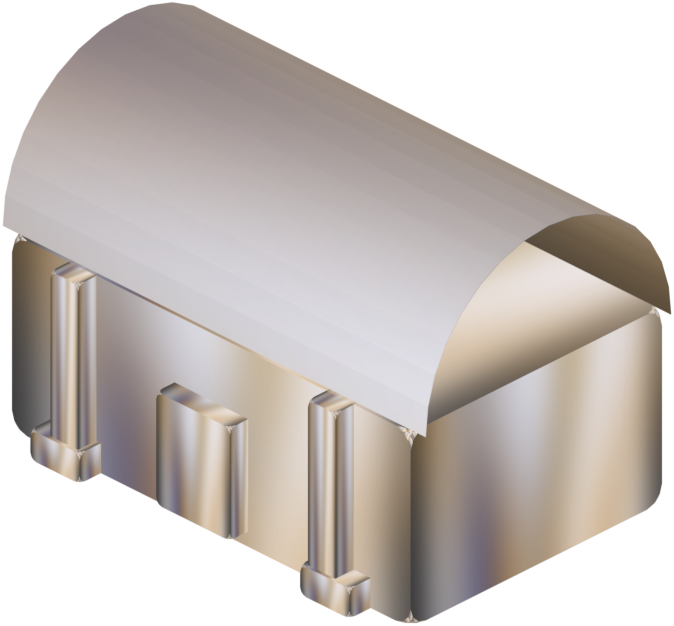
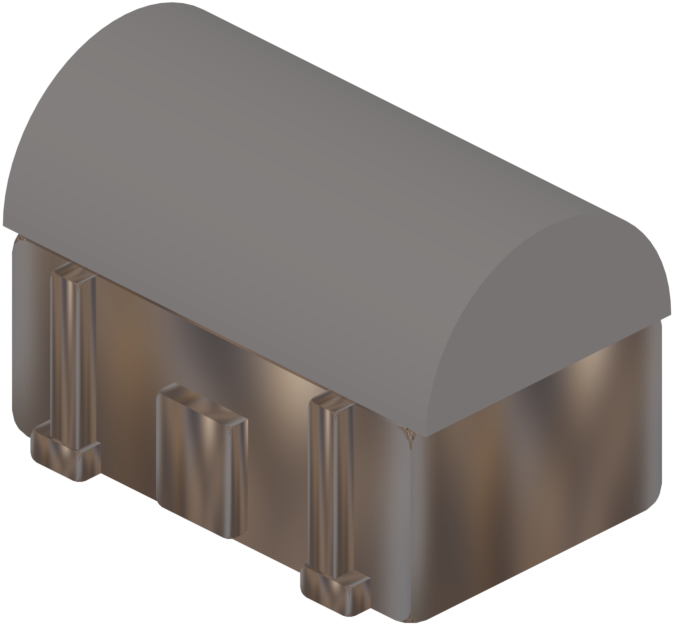
fix(npc): 宝箱半圆柱重写——显式实心端盖（不再裁剪）+ 贴图改取参考图 chest_closed 深色木纹
- make_half_cylinder 重写：显式建网格（拱面+两端实心半圆端盖+底面），不再用圆柱裁剪
  （旧法切掉下半后 holes_fill 未补上端盖，两端空心）；补 UV（拱面/端盖/底面）
- chest_body_tex 改从参考图 chest_closed（深色木箱 85~136 棕）提取盖侧/箱体交界带 +
  去噪平滑（mean 107,91,78）
- 紧身裁剪 674x626（宽高比 1.0767，显示 180x167 不变）

diff --git a/tools/ai-gen/render-factory-real.py b/tools/ai-gen/render-factory-real.py
@@ -133,25 +133,57 @@ def make_prism(L, W, H):
 
 
 def make_half_cylinder(L, R, segments=32):
-    """放倒的半圆柱（拱形盖）：轴沿 X，保留 z>=0 的上拱，底面平切在 z=0（贴箱体顶面）。"""
-    bpy.ops.mesh.primitive_cylinder_add(radius=R, depth=L, vertices=segments)
+    """放倒的半圆柱（拱形盖）：轴沿 X，上拱 + 两端实心端盖 + 底面平切 z=0。
+    显式建网格（旧法用圆柱裁剪，切掉下半后两端端盖是空的——holes_fill 也没补上）。"""
+    bpy.ops.mesh.primitive_cube_add(size=2)
     o = bpy.context.active_object
-    o.rotation_euler = (0, math.radians(90), 0)  # 轴 Z -> X
-    bpy.context.view_layer.update()
-    bpy.ops.object.transform_apply(rotation=True, scale=True)
+    bpy.ops.object.mode_set(mode="EDIT")
+    bpy.ops.mesh.select_all(action="SELECT")
+    bpy.ops.mesh.delete(type="VERT")
+    bpy.ops.object.mode_set(mode="OBJECT")
     import bmesh
     bpy.ops.object.mode_set(mode="EDIT")
     bm = bmesh.from_edit_mesh(o.data)
-    for v in list(bm.verts):
-        if v.co.z < -0.001:
-            bm.verts.remove(v)
-    # 两端封口：切掉下半后，两端半圆开口用边界环填充成实心端盖
-    bm.normal_update()
-    boundary = [e for e in bm.edges if not e.is_manifold]
-    if boundary:
-        bmesh.ops.holes_fill(bm, edges=boundary, sides=0)
+    half = L / 2
+    rings = []
+    for s in range(segments + 1):
+        theta = math.pi * s / segments  # 0..180° 上拱
+        y = R * math.cos(theta)
+        z = R * math.sin(theta)
+        ring = [bm.verts.new((-half, y, z)), bm.verts.new((half, y, z))]
+        rings.append(ring)
+    # 拱面（沿 X 连接两环）
+    for s in range(segments):
+        a0, a1 = rings[s]
+        b0, b1 = rings[s + 1]
+        bm.faces.new([a0, a1, b1, b0])
+    # 两端实心半圆端盖
+    for end in (0, 1):
+        arc = [rings[s][end] for s in range(segments + 1)]
+        center = bm.verts.new((half if end else -half, 0, 0))
+        for s in range(segments):
+            bm.faces.new([center, arc[s], arc[s + 1]])
+    # 底面（z=0 矩形）
+    bm.faces.new([rings[0][0], rings[0][1], rings[-1][1], rings[-1][0]])
     bmesh.update_edit_mesh(o.data)
     bpy.ops.object.mode_set(mode="OBJECT")
+    # UV：拱面沿长度 u / 沿弧 v；端盖极坐标；底面平面
+    uvl = o.data.uv_layers.new(name="UVMap")
+    for poly in o.data.polygons:
+        is_fan = len(poly.vertices) == 3
+        is_base = all(abs(o.data.vertices[v].co.z) < 0.001 for v in poly.vertices)
+        for li in poly.loop_indices:
+            co = o.data.vertices[o.data.loops[li].vertex_index].co
+            if is_base:
+                u = (co.x + half) / L
+                v = (co.y + R) / (2 * R)
+            elif is_fan:
+                u = 0.5 + 0.5 * co.y / R
+                v = 0.5 + 0.5 * co.z / R
+            else:
+                u = (co.x + half) / L
+                v = math.atan2(co.z, co.y) / math.pi
+            uvl.data[li].uv = (u, v)
     return o
 
 
